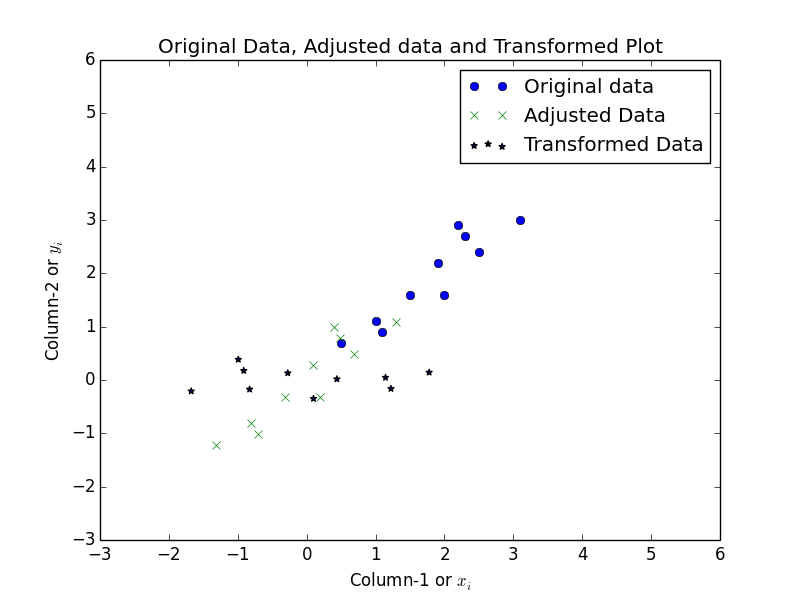
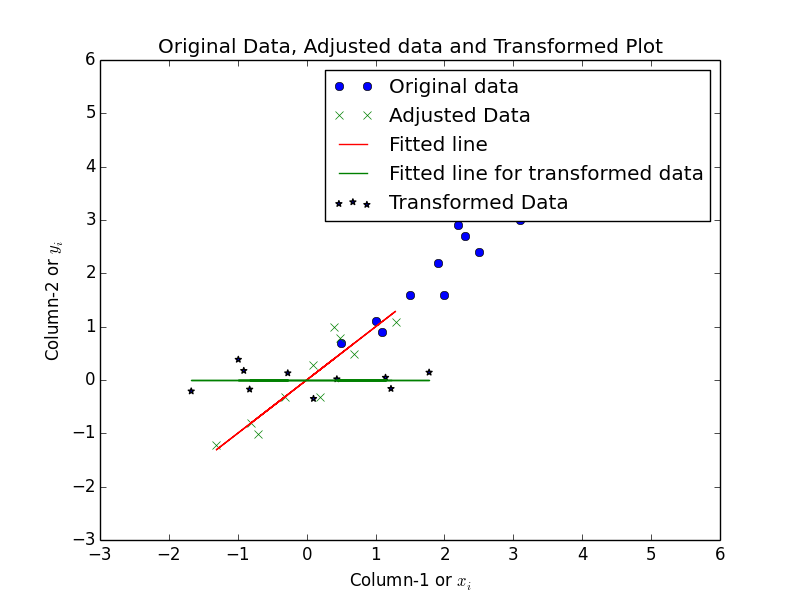
PLot with best fit lines to the data

diff --git a/pca.py b/pca.py
@@ -51,11 +51,24 @@ f = [float(x) for x in final_data[:, 0]]
 g = [float(x) for x in final_data[:, 1]]
 
 plt.scatter(f, g, marker='*', label="Transformed Data")
-plt.legend()
-plt.savefig("Original_Data_Adjusted_data_and_Transformed_Plot.png")
-plt.show()
 
 """
 Compare the variance of the two columns of the transformed_data choose the one with high variance.
 In case of more than one column select the columns with variance above the threshold.
 """
+
+# Best fit line for mean adjusted points
+A = np.vstack([x_, np.ones(len(x_))]).T
+m, c = np.linalg.lstsq(A, y_)[0]
+line = [(m * k) + c for k in x_]
+b = [float(k) for k in x_]
+plt.plot(b, line, 'r', label='Fitted line')
+
+# Best fit line for transformed data.
+A_ = np.vstack([f, np.ones(len(f))]).T
+m_, c_ = np.linalg.lstsq(A_, g)[0]
+line_ = [(m_ * k) + c_ for k in f]
+plt.plot(f, line_, 'g', label='Fitted line for transformed data')
+plt.legend()
+plt.savefig("Original_Data_Adjusted_data_and_Transformed_Plot.png")
+plt.show()
